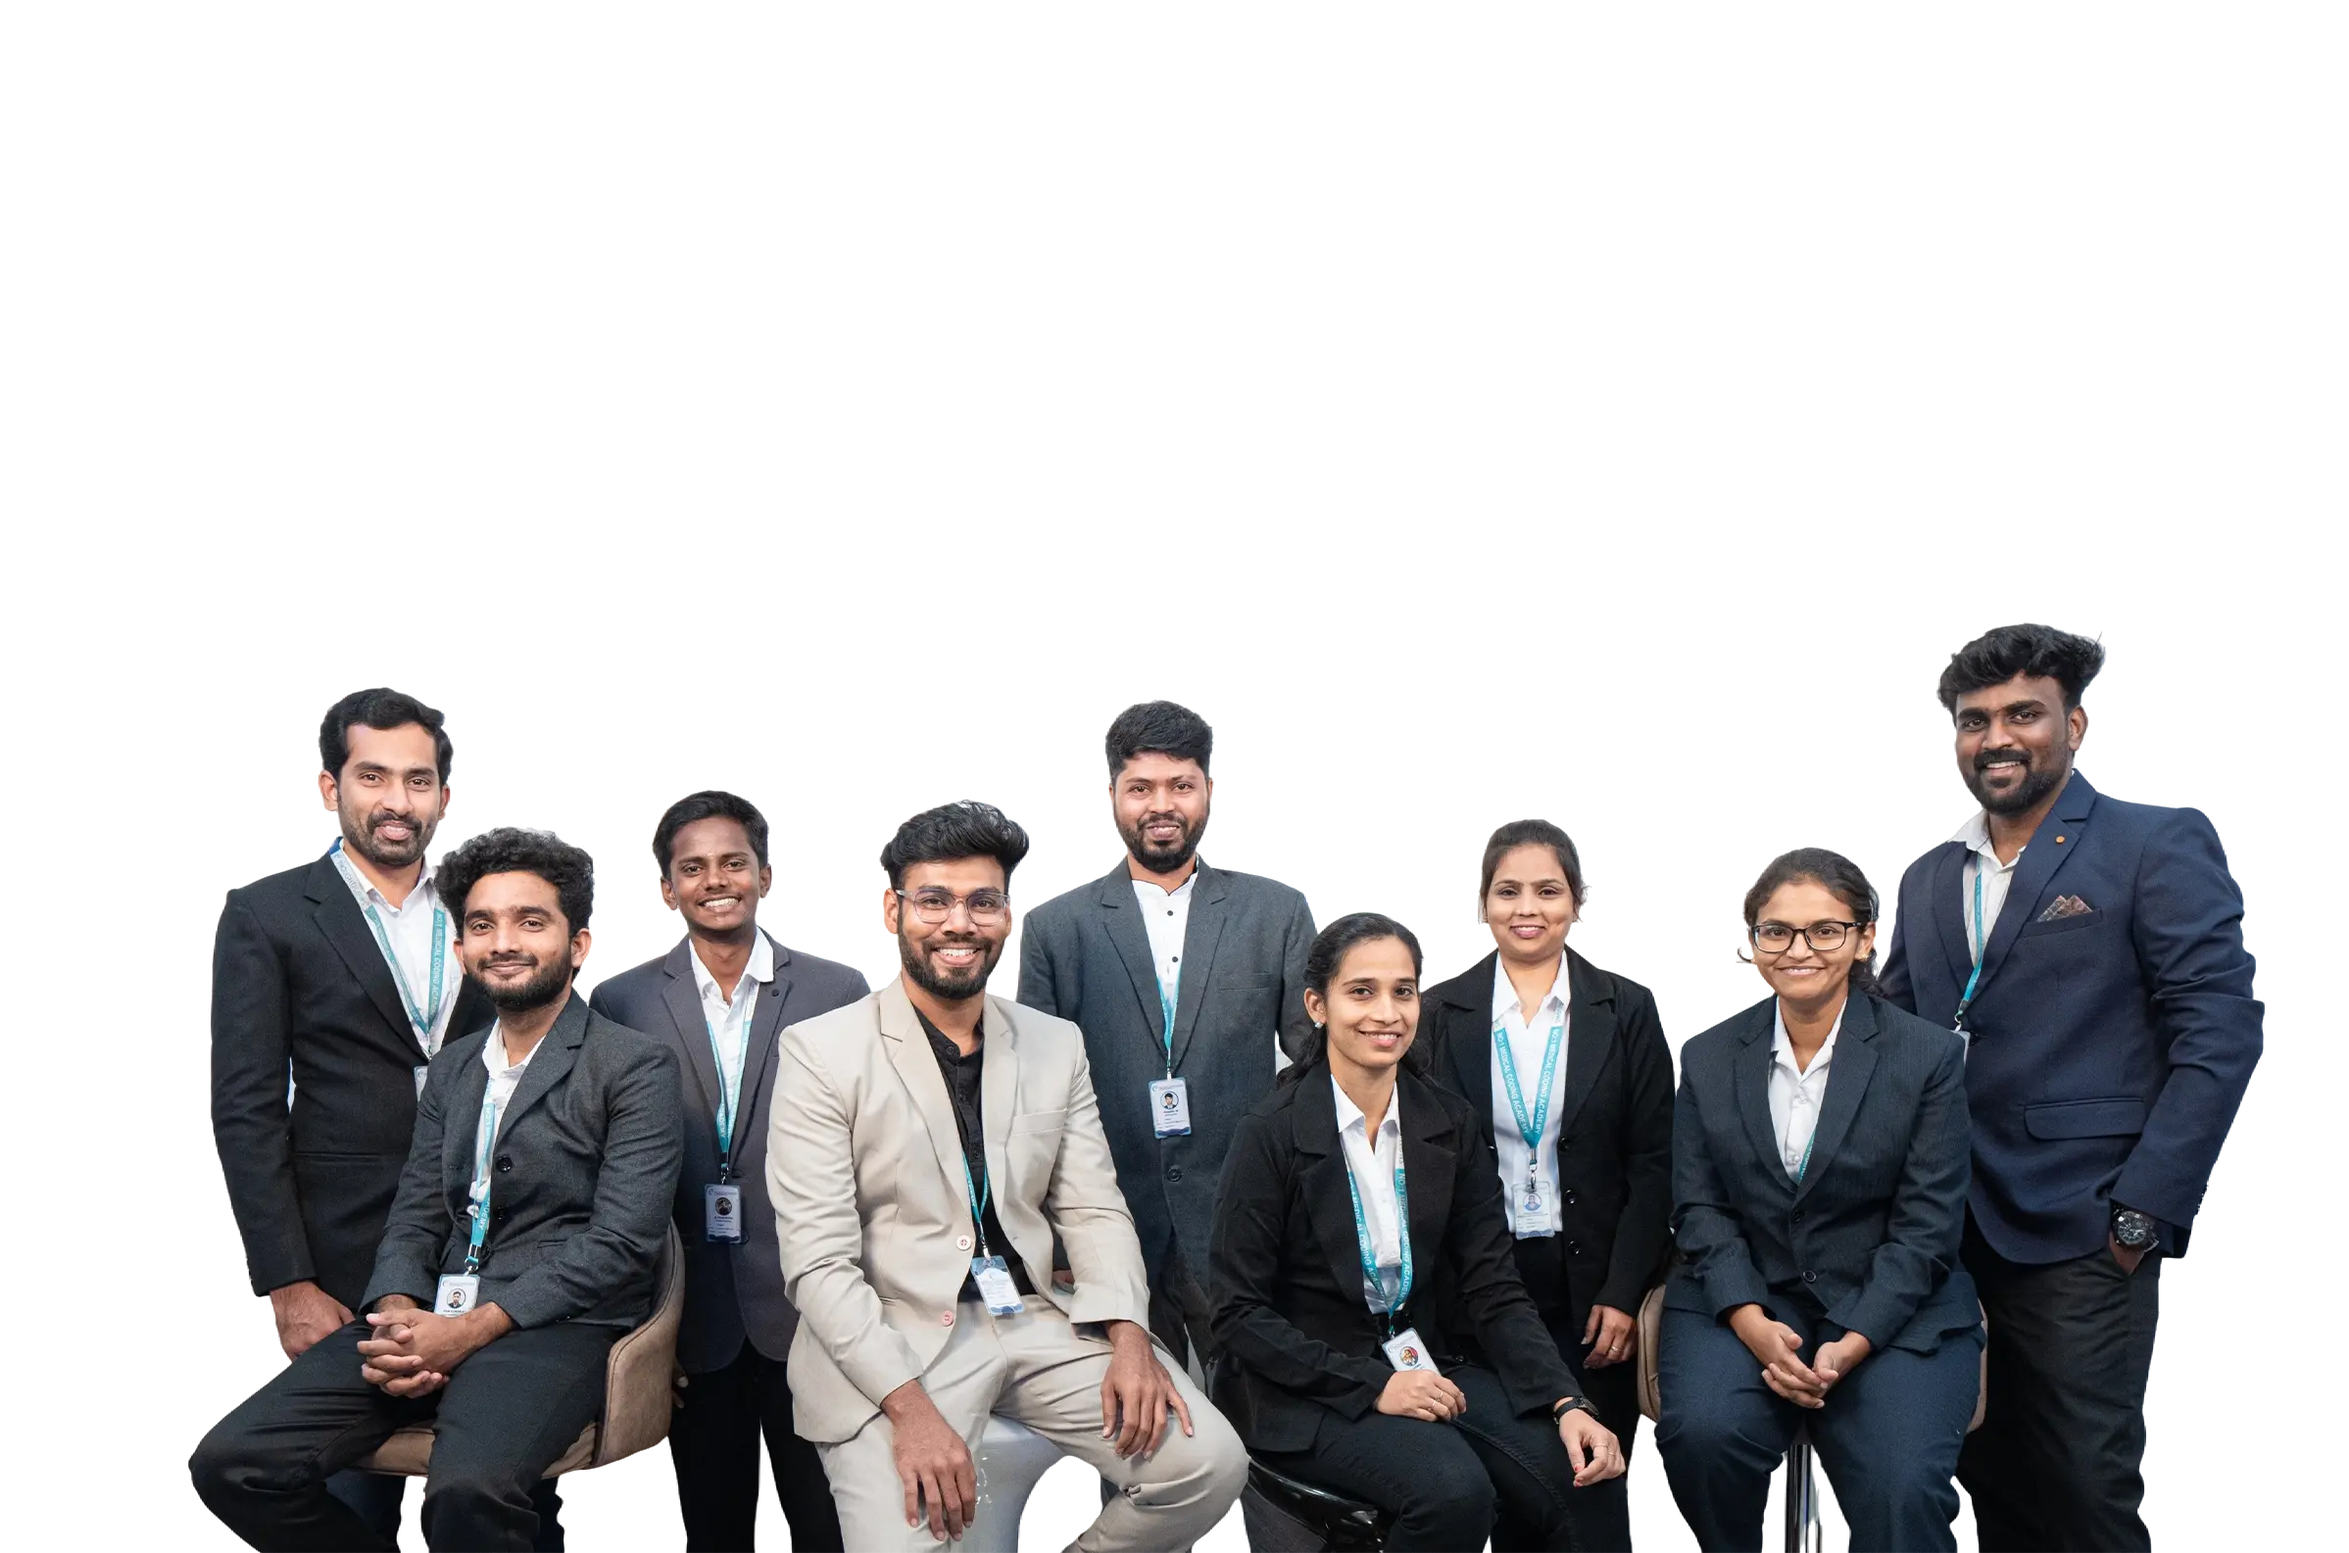
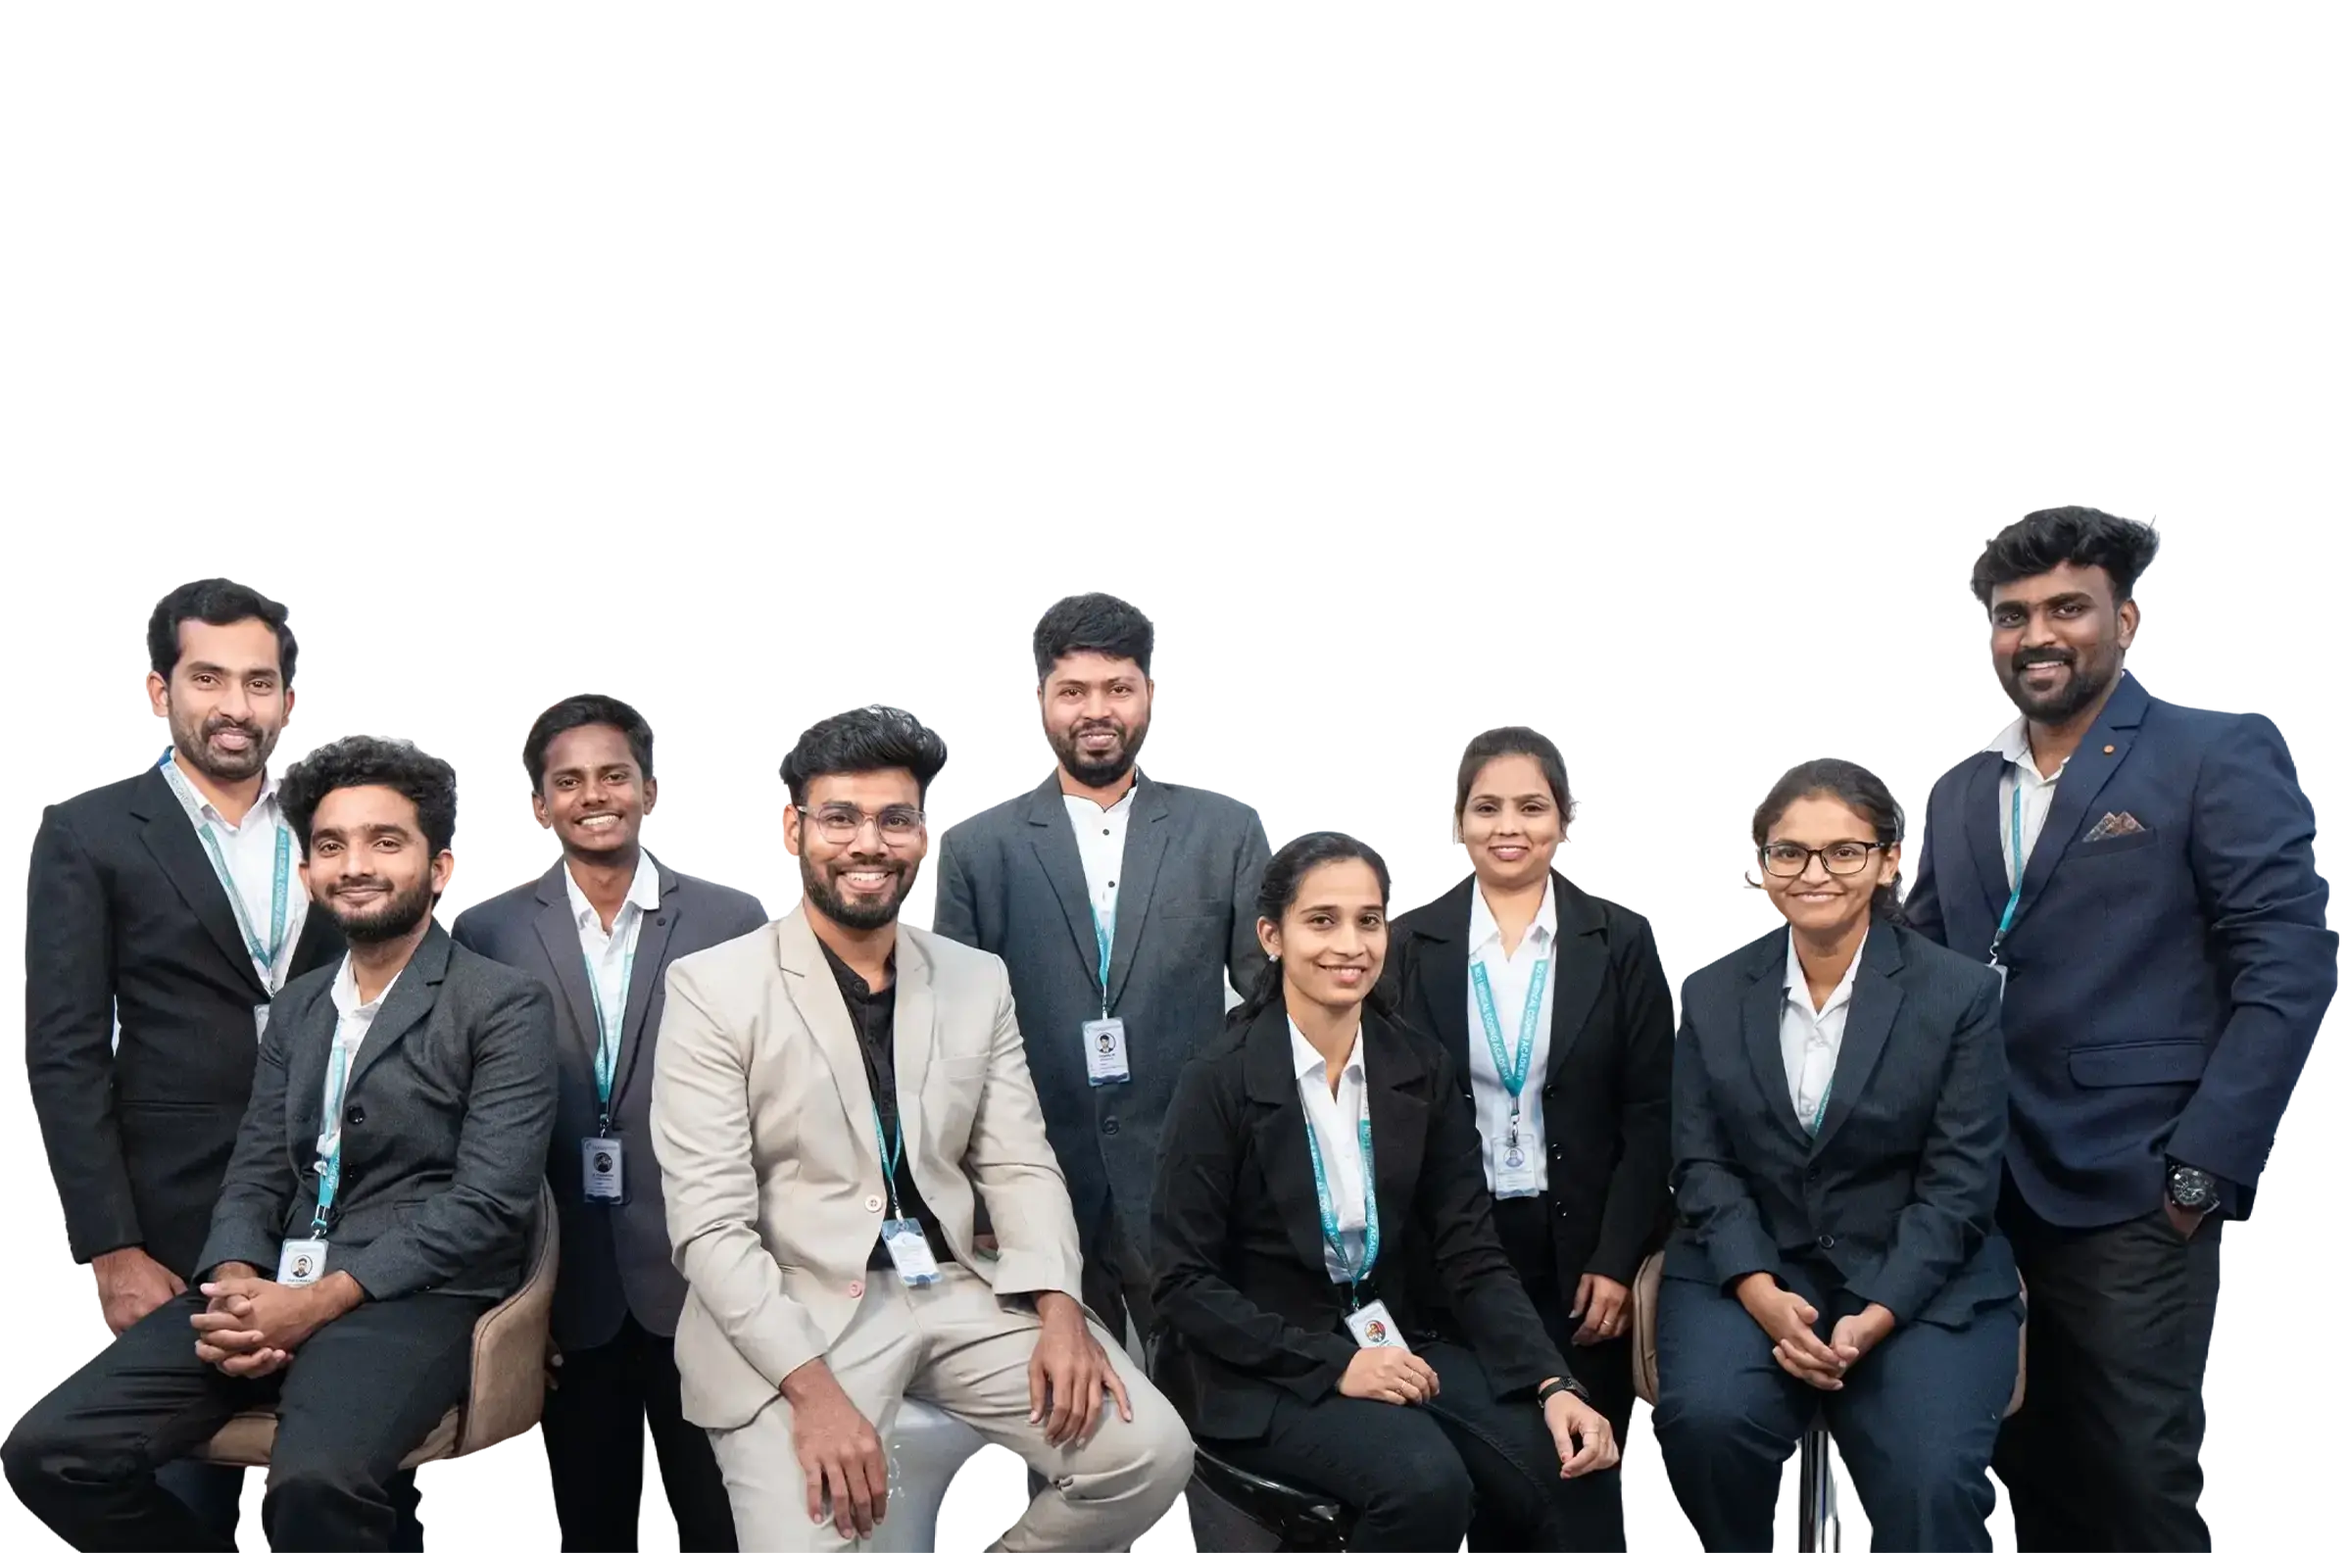
branches image

diff --git a/src/Branches/CBE-2/Cbe2Banner.js b/src/Branches/CBE-2/Cbe2Banner.js
@@ -52,7 +52,8 @@ const Cbe2Banner = () => {
                 <Col lg={7} md={8} xs={12} className='cbe1-banner-rht' style={{ 
                 display: 'flex',
                 justifyContent: 'center', 
-                alignItems: 'end',
+                alignItems: 'center',
+                flexDirection:'row',
                 paddingTop: '0',
                 
                 }}>
@@ -61,11 +62,11 @@ const Cbe2Banner = () => {
                     alt='bannergif' 
                     className='bannergif banner-appear' 
                     style={{
-                    maxWidth: '700px',
-                    width: '100%',
-                    height: 'auto',
-                    objectFit: 'contain',
-                    marginBottom: '-90px'
+                        maxWidth: '100%',
+                        width: 'auto',
+                        height: 'auto',
+                        objectFit: 'contain',
+                        marginBottom: '-30px'
                     }}
                 />
                 </Col>

diff --git a/src/Branches/Trichy/TrichyBanner.js b/src/Branches/Trichy/TrichyBanner.js
@@ -226,11 +226,11 @@ const TrichyBanner = () => {
             alt='bannergif' 
             className='bannergif banner-appear'
             style={{
-              maxWidth: '700px',  
-              width: '100%',
-              height: 'auto',
-              objectFit: 'contain',
-              marginBottom:'-130px'
+            maxWidth: '100%',
+            width: 'auto',
+            height: 'auto',
+            objectFit: 'contain',
+            marginBottom:'-40px'
             }}
           />
         </Col>

diff --git a/src/Branches/Vizag/VizagBanner.js b/src/Branches/Vizag/VizagBanner.js
@@ -65,11 +65,11 @@ const VizagBanner = () => {
             alt='bannergif' 
             className='bannergif banner-appear' 
             style={{
-              maxWidth: '700px',
-              width: '100%',
-              height: 'auto',
-              objectFit: 'contain',
-             marginBottom:'-90px'
+            maxWidth: '100%',
+            width: 'auto',
+            height: 'auto',
+            objectFit: 'contain',
+            marginBottom:'-40px'
             }}
           />
         </Col>

diff --git a/src/Branches/Trivandrum/TrivandrumBanner.js b/src/Branches/Trivandrum/TrivandrumBanner.js
@@ -218,10 +218,11 @@ const TrivandrumBanner = () => {
             alt='bannergif' 
             className='bannergif banner-appear'
             style={{
-              width: '884px',
-              height: '420px',
-              objectFit: 'contain',
-              marginBottom:'-140px'
+            maxWidth: '100%',
+            width: 'auto',
+            height: 'auto',
+            objectFit: 'contain',
+            marginBottom:'-40px'
             }}
           />
         </Col>

diff --git a/src/Branches/Tirupathi/TirupathiBanner.js b/src/Branches/Tirupathi/TirupathiBanner.js
@@ -164,10 +164,11 @@ const TirupathiBanner = () => {
             alt='bannergif' 
             className='bannergif banner-appear'
             style={{
-              width: '884px',
-              height: '420px',
-              objectFit: 'contain',
-              marginBottom:'-130px'
+            maxWidth: '100%',
+            width: 'auto',
+            height: 'auto',
+            objectFit: 'contain',
+            marginBottom:'-40px'
             }}
           />
         </Col>

diff --git a/src/Branches/salem/SalemBanner.js b/src/Branches/salem/SalemBanner.js
@@ -276,10 +276,11 @@ const SalemBanner = () => {
             alt='bannergif' 
             className='bannergif banner-appear'
             style={{
-              width: '884px',
-              height: '420px',
-              objectFit: 'contain',
-              marginBottom:'-190px'
+            maxWidth: '100%',
+            width: 'auto',
+            height: 'auto',
+            objectFit: 'contain',
+            marginBottom:'-40px'
             }}
           />
         </Col>

diff --git a/src/Branches/Kochi/KochiBanner.js b/src/Branches/Kochi/KochiBanner.js
@@ -66,10 +66,11 @@ const KochiBanner = () => {
             alt='bannergif' 
             className='bannergif banner-appear'
             style={{
-              width: '884px',
-              height: '420px',
-              objectFit: 'contain',
-              marginBottom:'-135px'
+            maxWidth: '100%',
+            width: 'auto',
+            height: 'auto',
+            objectFit: 'contain',
+            marginBottom:'-40px'
             }}
           />
         </Col>

diff --git a/src/Branches/Hyderabad2/Hyderabad2Banner.js b/src/Branches/Hyderabad2/Hyderabad2Banner.js
@@ -64,10 +64,11 @@ const HyderabadBanner = () => {
             alt='bannergif' 
             className='bannergif banner-appear'
             style={{
-              width: '884px',
-              height: '420px',
+              maxWidth: '100%',
+              width: 'auto',
+              height: 'auto',
               objectFit: 'contain',
-              marginBottom:'-135px'
+              marginBottom:'-40px'                  
             }}
           />
         </Col>

diff --git a/src/Branches/CBE-1/Cbe1Banner.js b/src/Branches/CBE-1/Cbe1Banner.js
@@ -1,6 +1,6 @@
 import React from 'react'
 import bannerImage from '../../images/homebannerbg.png'
-import saravanampatti from '../../images/Branches/Pic 2.webp'
+import saravanampatti from '../../images/Branches/Pic 2 1.png'
 import { Container, Row } from 'react-bootstrap'
 import CountUp from 'react-countup';
 import { Col } from 'react-bootstrap'
